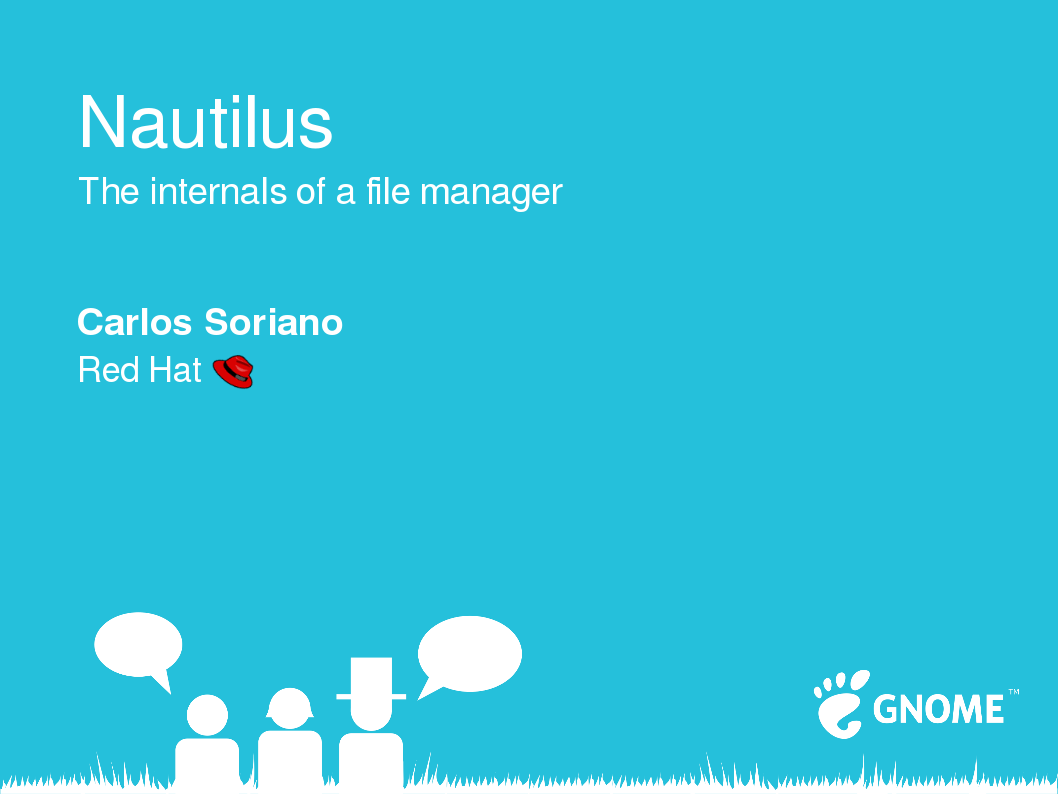
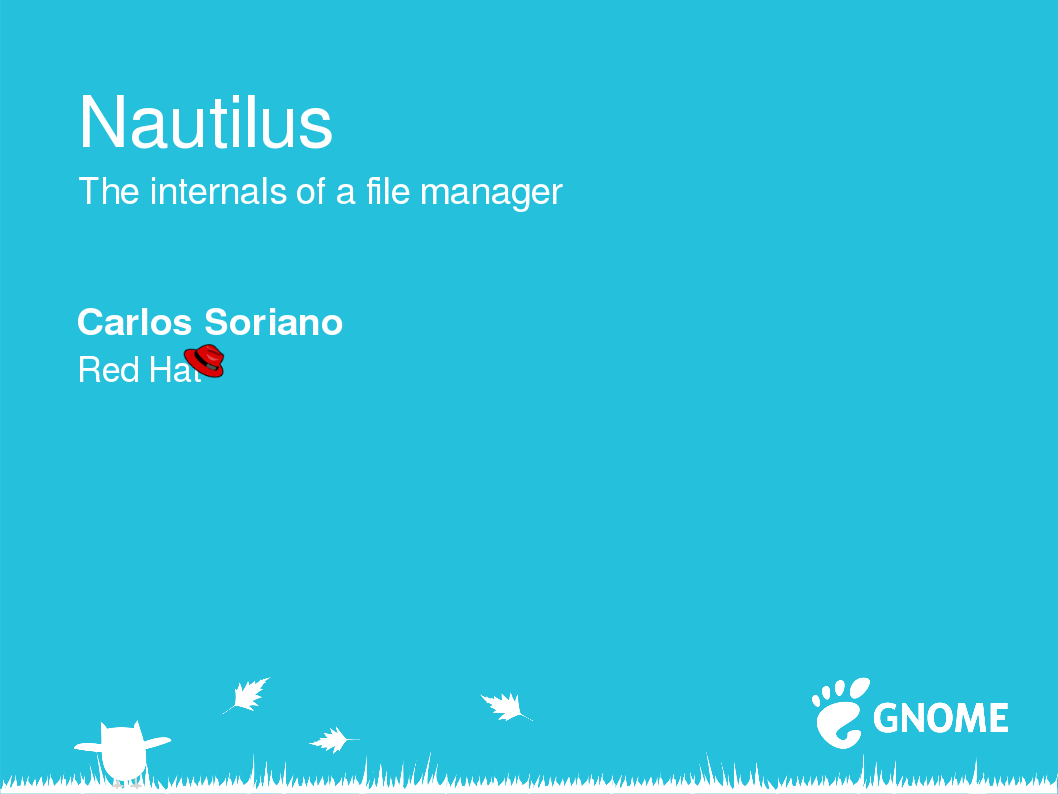
Add new slides styles to README

Changed region(s): [[0.0, 0.7557, 1.0, 1.0], [0.7486, 0.8463, 0.9669, 0.9673], [0.156, 0.4232, 0.2495, 0.5139]]

diff --git a/README.md b/README.md
@@ -4,5 +4,11 @@ A LibreOffice Impress template with Gnome branding to be used on talks.
 # Example
 
 ![alt tag](https://github.com/csoriano89/gnome-slides-template/blob/master/readme-images/first-slide.png)
+![alt tag](https://github.com/csoriano89/gnome-slides-template/blob/master/readme-images/first-slide2.png)
 ![alt tag](https://github.com/csoriano89/gnome-slides-template/blob/master/readme-images/middle-slide.png)
+![alt tag](https://github.com/csoriano89/gnome-slides-template/blob/master/readme-images/middle-slide2.png)
+![alt tag](https://github.com/csoriano89/gnome-slides-template/blob/master/readme-images/middle-slide3.png)
+![alt tag](https://github.com/csoriano89/gnome-slides-template/blob/master/readme-images/middle-slide4.png)
 ![alt tag](https://github.com/csoriano89/gnome-slides-template/blob/master/readme-images/last-slide.png)
+![alt tag](https://github.com/csoriano89/gnome-slides-template/blob/master/readme-images/last-slide2.png)
+![alt tag](https://github.com/csoriano89/gnome-slides-template/blob/master/readme-images/last-slide3.png)
